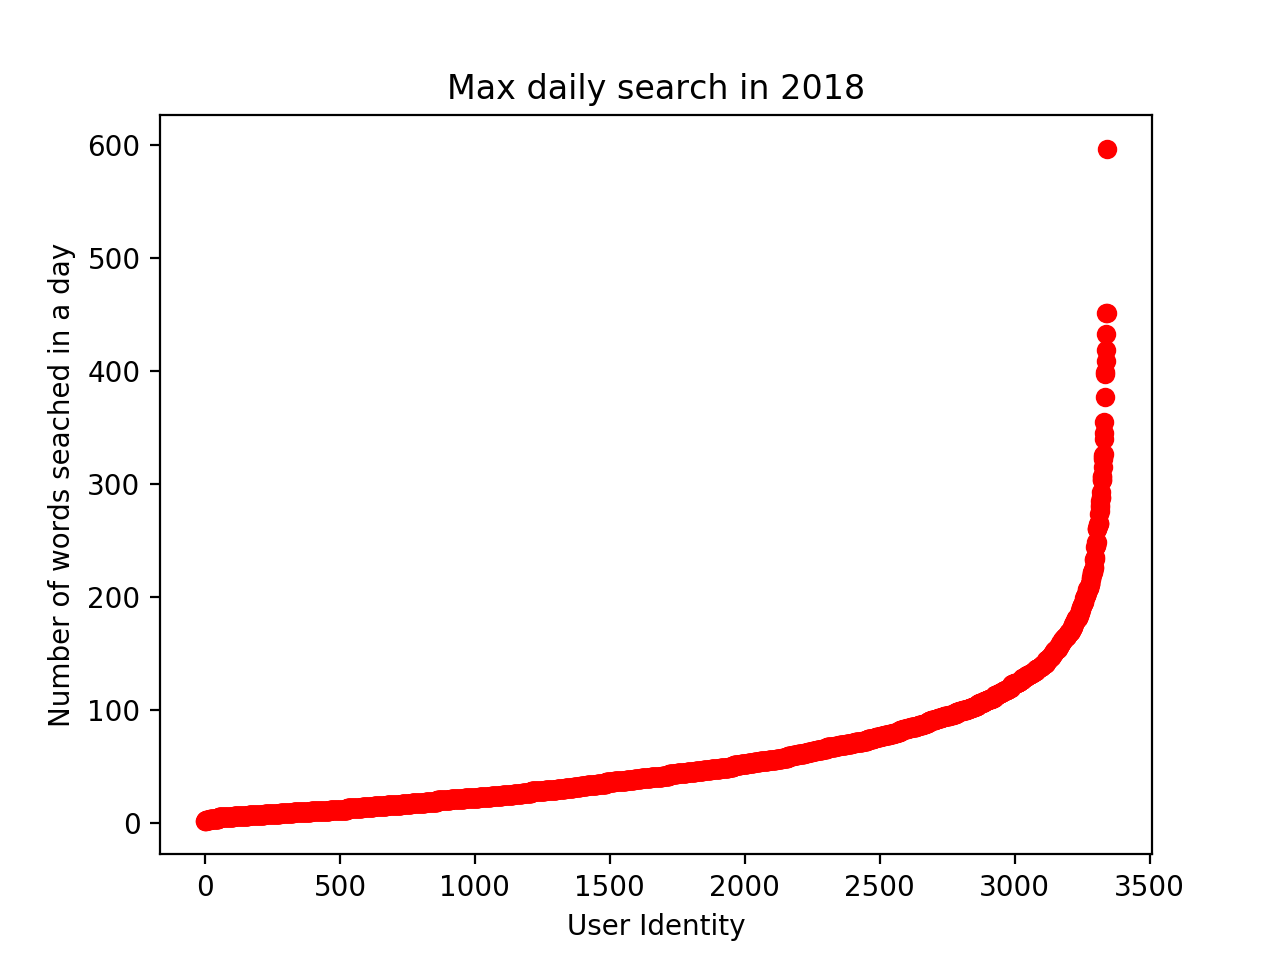
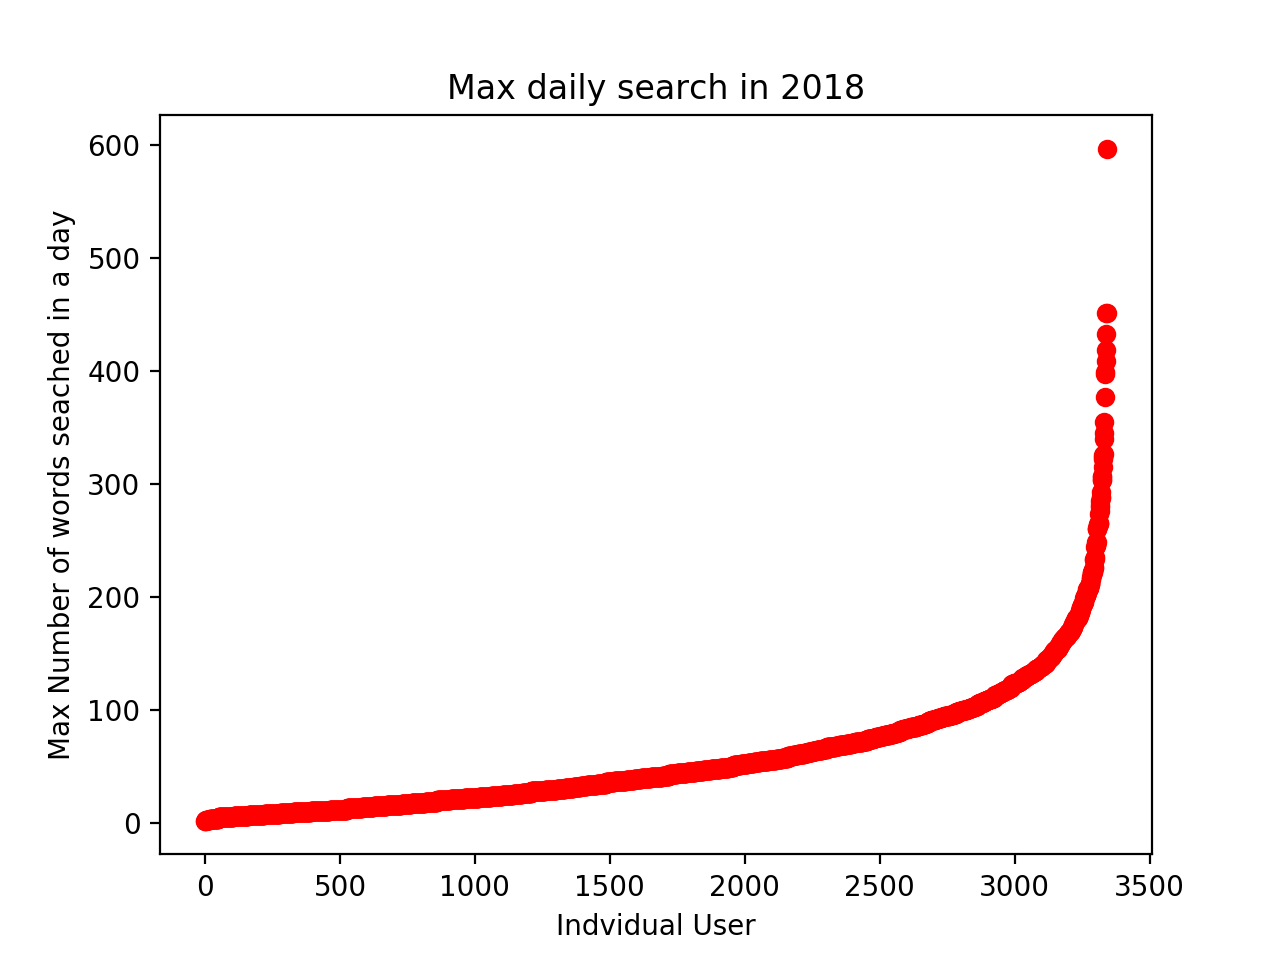
basic temp prediction, every low performance

Changed region(s): [[0.0312, 0.2188, 0.0625, 0.8125], [0.4375, 0.9375, 0.5938, 1.0]]

diff --git a/exp/exp2.py b/exp/exp2.py
@@ -8,16 +8,130 @@ import random
 import statistics
 from exp1 import *
 
+
+
+
+def recommendTempWords(u_past,words_feat,num_words_predict,neigh,context_users):
+	# print(words_feat)
+	num_reccom = num_words_predict
+	stats = {}
+	user_words = u_past
+	eff_user_words = [x[0] for x in user_words]
+	for usr in neigh:
+		uid = usr[0]
+		searched = usr[3]
+		for wordentry in searched:
+			wd = wordentry[0]
+			if wd in eff_user_words:
+				continue
+			if wd not in stats:
+				stats[wd] = 1
+			else:
+				stats[wd] += 1
+
+	statsInList = list(stats.items())
+	statsInList.sort(key=lambda x:x[1],reverse=True)
+	recommended = statsInList[:num_reccom]
+	#debug
+	if len(recommended) == 0:
+		print('debug msg: recommended words - nought, neigh found',len(neigh))
+	return recommended
+
+
+def findTempSimilarities(words_feat,context_users_day,neigh_size):
+	rank = []
+	for userid,search in context_users_day.items():
+		tmp_best_score = 0 
+		tmp_best_day = 0
+		tmp_best_search = []
+		for aDay,aDaySearch in search:
+			if len(aDaySearch) < len(words_feat)/2:
+				tmp_words = aDaySearch
+				user_words = words_feat
+				ts = getSimilarityScore(user_words,tmp_words,userid)
+				if ts > tmp_best_score:
+					tmp_best_score = ts
+					tmp_best_day = aDay
+					tmp_best_search = aDaySearch
+
+		rank.append([userid,tmp_best_score,tmp_best_day,tmp_best_search])
+
+	rank.sort(key=lambda x:x[1],reverse=True)
+	rank = rank[:neigh_size]
+	return rank
+
+
+
+def getUserSearchedWords(aUser,aDay):
+	words = []
+	for item in aUser:
+		# print(item)
+		# print (aUser,aDay)
+		if item[1] < aDay:
+			words.append(item)
+	return words
+
+def oneFoldShortTermExp(fold_id,folds,num_words_feat,num_words_predict,neigh_size,users,users_day):
+	stack = []
+	context_users = {**users}
+	context_users_day = {**users_day}
+
+	uids_in_exam = [x[0] for x in folds[fold_id]]
+
+	# firstly, create test profiles
+	for target_id in uids_in_exam:
+		del context_users_day[target_id]
+	
+	# make predict words and ground words
+	for user_log in folds[fold_id]:
+		uid = user_log[0]
+		day = user_log[1]
+		uwords = user_log[2]
+		words_feat = uwords[:num_words_feat]
+		words_ground_predict = uwords[num_words_feat:]
+
+		u_past = getUserSearchedWords(users[uid],day)
+
+		tmp_neigh_search = findTempSimilarities(words_feat,context_users_day,neigh_size)
+		predicted_words = recommendTempWords(u_past,words_feat,num_words_predict,tmp_neigh_search,context_users)
+
+		# score prediction
+		if len(predicted_words)==0: # if cannot be predicted 
+			continue
+			
+
+		precision = predictionMatchingScore(uid,predicted_words,words_ground_predict)
+		precision = (precision*len(predicted_words)/len(words_ground_predict))
+		print(precision*len(predicted_words)/len(words_ground_predict),precision*len(predicted_words),len(predicted_words),len(words_ground_predict))
+		if precision == 0:
+			print(predicted_words)
+			print(words_ground_predict)
+		stack.append(precision)
+
+	return statistics.mean(stack)
+
+def findInRangeDaySearch(threshold_up,threshold_down,aList):
+	for item in aList:
+		list_len = len(item[1])
+		if list_len >= threshold_down and list_len <= threshold_up:
+			return item
+	return False
+
 def main(args):
 	if len(args) <= 0:
-		sys.exit("please launch with recc number, for example 10")
+		sys.exit("please launch with fold number, for example 11")
 
 	# parameters
 	random.seed(100)
-	month_threshold = 2
-	month_train = month_threshold/2
+	num_sample = 800
+	# ----
+	# month_threshold = 2
+	# month_train = month_threshold/2
+
 	number_of_folds = 5
-	num_reccom = 20
+	num_words_predict = 100
+	num_words_feat = 10
+	neigh_size = 100
 	# ----
 	start_time = time.time()
 
@@ -25,44 +139,60 @@ def main(args):
 	datadir = '/'.join(root_arr+['data']) 
 
 	filetoread= datadir+'/out2.csv'
-
 	
 	users = loadSQL2(filetoread)
 	# print("--- loaded in %s seconds ---" % (time.time() - start_time))
 	
-	# iterate_dir = users
+	user_dialy = []
+	dataset = []
 
-	# test_users = {}
 
-	# # eliminate duplicates
-	# for key,item in iterate_dir.items():
-	# 	if checkTimeRange(key,item,month_threshold):
-	# 		test_users[key] = item
+	# Re-structure user info by day
+	# ---
+	users_day = {}
+	for userid,search in users.items():
+		user_seach_day = {}
+		for anItem in search:
+			w = anItem[0]
+			day = anItem[1]
+			existance = anItem[2]
+			dbid = anItem[3]
+			word_info = [w,dbid]
+			user_seach_day[day] =  [word_info] if day not in user_seach_day else user_seach_day[day] + [word_info]
+		usersdayInList = list(user_seach_day.items())
+		usersdayInList.sort(key=lambda x:len(x[1]),reverse=True)
+		users_day[userid] = usersdayInList
+
+	# Prepare test set
+	# ---
+	for userid,usersdayInList in users_day.items():
+		foundDay = findInRangeDaySearch(25,20,usersdayInList)
+		if not foundDay:
+			continue
+		else:
+			wordset = [[x[0],int(x[1])] for x in foundDay[1]]
+			wordset.sort(key=lambda x:x[1])
+			dataset.append([userid,foundDay[0],wordset])
+
+
+
+	print("The dataset has been prepared ...")
+	# print(len(dataset),len(dataset[0][2]))
+	total_inst = random.sample(dataset, num_sample)
+	folds = partition_shuffle(total_inst,5)	
+
+	avgs = []
+	i = int(args[0])
+	test_ids = folds[i]
+	# print(test_ids[0])
+	avg = oneFoldShortTermExp(i,folds,num_words_feat,num_words_predict,neigh_size,users,users_day)
+	print(avg)
+	# avg = oneFoldShortTermExp(test_ids,users,month_threshold,month_train,num_reccom)
+	# avgs.append(avg)
 
 	
-	# user_ids = list(test_users.keys())
-	# partitioned = partition_shuffle(user_ids,number_of_folds)
-	
+	sys.exit()
 
-
-	# avgs = []
-
-	
-
-	# num_reccom = int(args[0])
-
-	# for i in range(5):
-		
-	# 	test_ids = partitioned[i]
-	# 	avg = oneFoldExp(test_ids,users,month_threshold,month_train,num_reccom)
-		
-	# 	avgs.append(avg)
-	# 	print ('avg fold',1,'is',avg)
-	# 	print('number of users in consideration ',len(partitioned[0]),' with month set as ',month_threshold)
-	
-
-	# print("--- Completed in %s seconds ---" % (time.time() - start_time))
-	# print('final for num recc',num_reccom,'is',statistics.mean(avgs))
 
 
 if __name__ == '__main__':

diff --git a/plots/data-daysearch.py b/plots/data-daysearch.py
@@ -31,25 +31,18 @@ def main(args):
 
 	user_dialy = []
 	for userid,search in users.items():
-		# print(key,item)
+		# loop users record to find max daily search
 		user_seach_day = {}
 		for anItem in search:
-			# anItem=search[0]
 			w = anItem[0]
 			day = anItem[1]
 			existance = anItem[2]
 			dbid = anItem[3]
 			user_seach_day[day] =  1 if day not in user_seach_day else user_seach_day[day] + 1
-			# if day not in user_seach_day:
-			# 	user_seach_day[day] = 1
-			# else:
-			# 	user_seach_day[day] = 1
-		# user_seach_day.items()
+
 		usersdayInList = list(user_seach_day.items())
 		usersdayInList.sort(key=lambda x:x[1],reverse=True)
 		user_dialy.append([usersdayInList[0][1],userid,usersdayInList[0][0]])
-		# print(usersdayInList[0][1])
-		# sys.exit()
 
 
 	user_dialy.sort(key=lambda x:x[0])
@@ -58,43 +51,6 @@ def main(args):
 	search_rank = [x[0] for x in user_dialy]
 	print(search_rank)
 	print(statistics.mean(search_rank))
-	sys.exit()
-
-	iterate_dir = users
-	usersInList = list(users.items())
-	usersInList.sort(key=lambda x:len(x[1]))
-
-
-	print("--- sorted in %s seconds ---" % (time.time() - start_time))
-
-
-	number_of_words = 0
-	for userprofile in usersInList:
-		print (userprofile[1])
-		sys.exit()
-		number_of_words += len(userprofile[1])
-
-
-	print('=== report stats ====')
-	num_of_users = len(users.keys())
-	print('num of users:',num_of_users)
-	print('num of words:',number_of_words)
-	print('avg word per user:',number_of_words/num_of_users)
-	median_user_index = int(num_of_users/2)
-	print('median word per user:',len(usersInList[median_user_index][1]))
-	print('==============')
-
-	# print ('normed user id and search frequency')
-	# counter = 1
-	# list_count=[]
-	# for userinfo in usersInList:
-	# 	userid = userinfo[0]
-	# 	words = userinfo[1]
-	# 	list_count.append(len(words))
-	# 	# print (counter,len(words))
-	# 	counter += 1
-	# print(list_count)
-
 
 
 if __name__ == '__main__':

diff --git a/exp/exp1.py b/exp/exp1.py
@@ -85,7 +85,7 @@ def getSimilarityScore(user_words,tmp_words,userid):
 	occurrence = [x for x in eff_user_words if x in eff_tmp_words]
 	return len(occurrence) / len(user_words)
 
-def findNeighbourhood(current_userid,list_words,context_users,k=10):
+def findNeighbourhood(current_userid,list_words,context_users,neigh_size=10):
 	rank = []
 	# print (context_users[3320])
 	for userid,info in context_users.items():
@@ -94,7 +94,7 @@ def findNeighbourhood(current_userid,list_words,context_users,k=10):
 			rank.append([userid,tmpScore])
 
 	rank.sort(key=lambda x:x[1],reverse=True)
-	rank = rank[:k]
+	rank = rank[:neigh_size]
 	return rank
 
 def findRecommendationFromNeigh(num_reccom,user_words,neigh,context_users):

diff --git a/plots/plot-user-daily.py b/plots/plot-user-daily.py
@@ -23,6 +23,6 @@ print(500,statistics.mean(arr[:500]))
 txt = "Max daily search in 2018"
 # plt.figtext(0.5, 0.10, txt, wrap=True, horizontalalignment='center', fontsize=12)
 plt.title(txt)
-plt.xlabel('User Identity')
-plt.ylabel('Number of words seached in a day')
+plt.xlabel('Indvidual User')
+plt.ylabel('Max Number of words seached in a day')
 plt.show()
